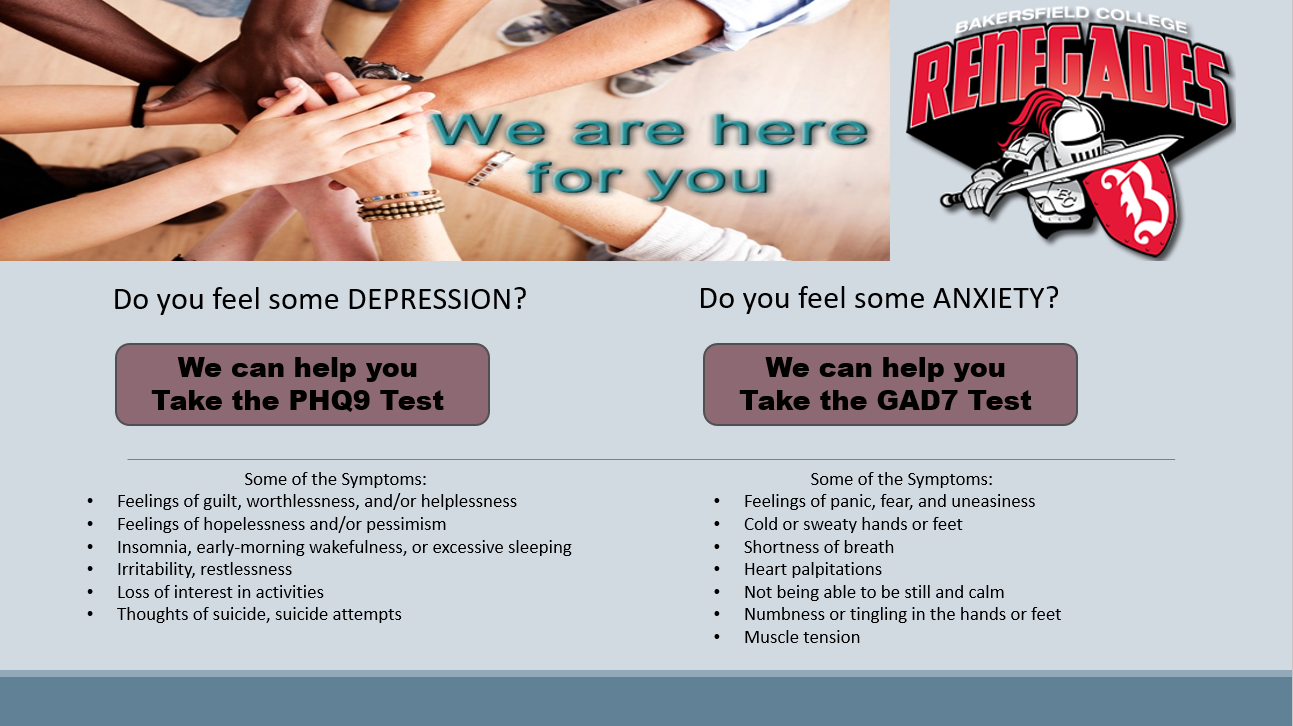
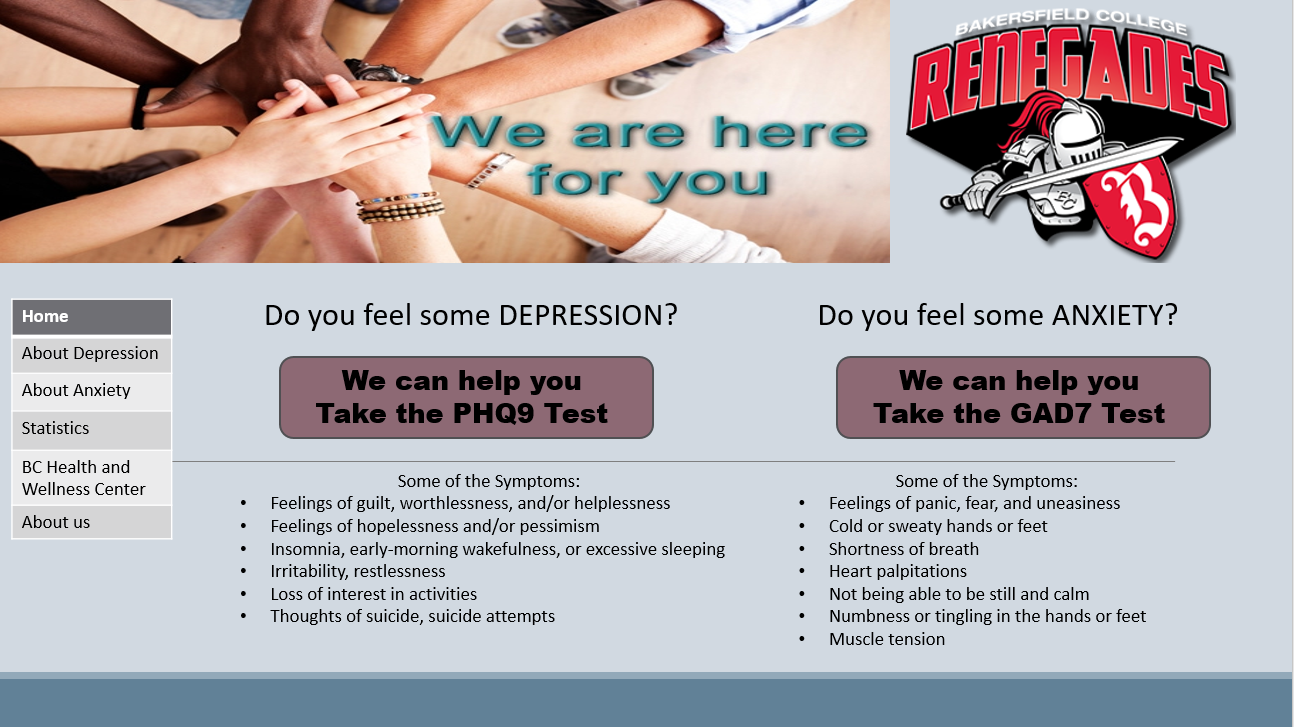
add options at the left side of the page

diff --git a/index.html b/index.html
@@ -1,7 +1,7 @@
 <!DOCTYPE html>
 <html>
     <head>
-        <title> We are here for you! Bakersfield College </title>
+        <title> Down with depression and anxiety Bakersfield College </title>
         <link rel="stylesheet" href="style.css" type="text/css" />
     </head>
     <body>
